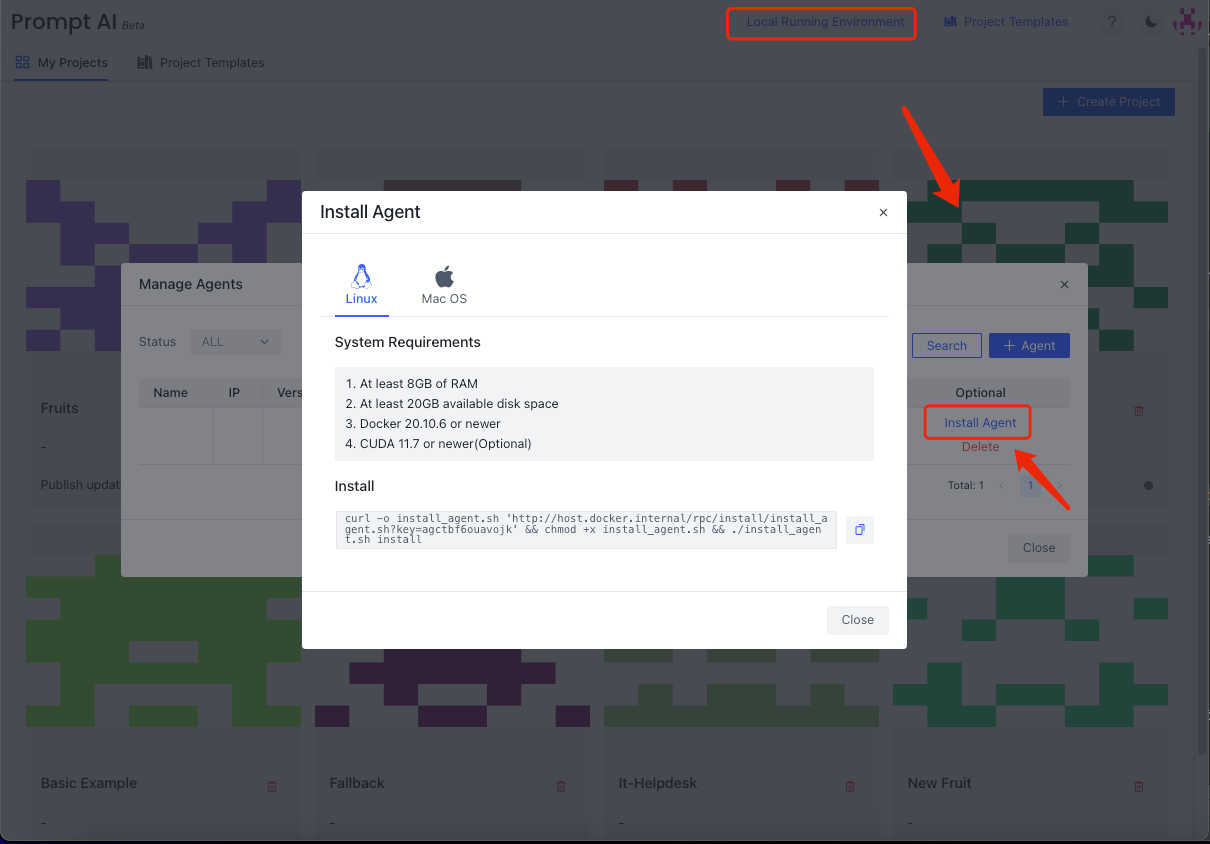
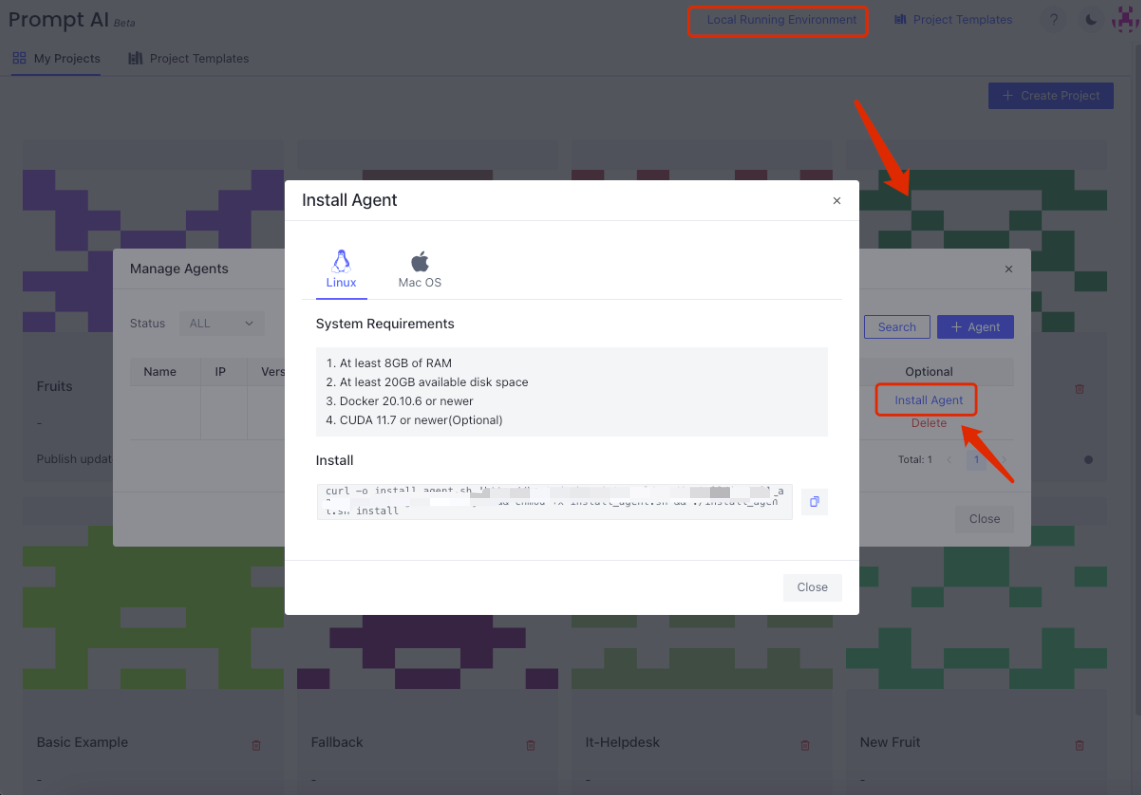
1、update Install questions

diff --git a/docs/common_questions/install_questions.md b/docs/common_questions/install_questions.md
@@ -7,9 +7,10 @@ nav_order: 1
 ### Where can I download the local running environment installer? 
 The local running environment can be installed by following steps:
 - log in system
-- Click on "Manage Agents" on the upper right corner
-- Click "Install" in the pop-up window
-- You can see the installation command under "Install"
+- Click `Local Running Environment` on the upper right corner
+- Click `Manage Agents` in the pop-up window
+- Click `Install Agent` in the pop-up window
+- You can see the installation command under `Install`
 
 ![01-install-questions.png](/assets/images/install_agent.jpg)
 
@@ -37,7 +38,7 @@ The agent in use cannot be deleted through the "Manage Agents" management panel.
 --->
 
 - Log in to the machine where the agent is installed
-- Execute '~/zbot/install_agent.sh upgrade' in the shell
+- Execute `~/zbot/install_agent.sh upgrade` in the shell
 - Enter `y` to confirm the upgrade [the service will be temporarily unavailable during the update]
 - Wait for the upgrade to complete
 
@@ -65,9 +66,9 @@ xxxxx
 --->
 
 - Log in to the machine where the agent is installed
-- Execute 'promptai uninstall' in the shell
+- Execute `~/zbot/install_agent.sh uninstall` in the shell
 - Enter `y` to confirm uninstallation
-- Wait for the uninstall to complete
+- Wait for the uninstallation to complete
 
 Note: This process needs to keep the network unobstructed, otherwise it will lead to failure.
 
